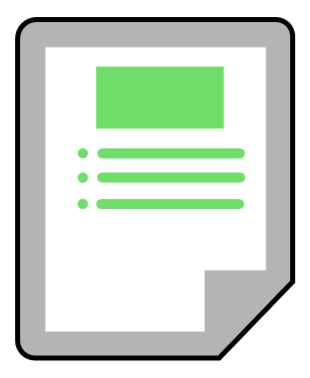
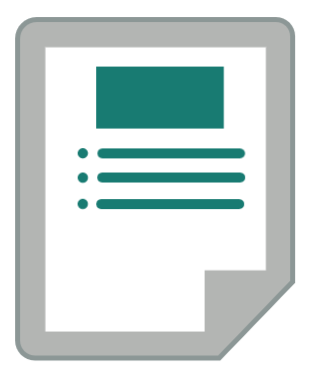
updated all recipes pages with a nav option when no recipes exist

diff --git a/client/src/App.css b/client/src/App.css
@@ -1,13 +1,13 @@
 
 :root{
   --off_white:#F2F2F3;
-  --dark_green: #356809;
-  --medium_green: #5FA621;
   --dark_neutral:#242C29;
+  --medium_neutral:#3F4948;
+  --light_neutral:#8C9796;
   --dark_red:#955049;
-  --medium_orange:#C95F36;
-  --bright_orange:#F59446;
-  --deep_blue:#2C6862
+  --deep_blue:#2C6862;
+  --medium_blue:#187B72;
+  --light_blue:#089184;
 }
 
 html{
@@ -65,9 +65,9 @@ html{
 }
 
 #navbar-icon{
-  height: 80px;
-  width: 80px;
-  padding-top: 10px;
+  height: 50px;
+  width: 50px;
+  padding-top: 5px;
 }
 
 .navbar-options-container{
@@ -198,6 +198,32 @@ padding: 5px;
   gap: 30px 30px
 }
 
+.display-recipes-no-recipes{
+  display:flex;
+  flex-direction: column;
+}
+
+.display-recipes-no-recipes-button-container{
+  display: flex;
+  flex-direction: row;
+  margin-top: 2em;
+  gap: 2em;
+}
+
+.display-recipes-no-recipes-button-container button{
+  background-color: var(--dark_neutral);
+  color: var(--off_white);
+  cursor: pointer;
+
+  font-family: 'Mukta', sans-serif;
+  ;
+
+  border:none;
+
+  padding: 15px
+}
+
+
 .singleRecipeContainer{
   width: 200px;
   height: 250px;
@@ -205,6 +231,13 @@ padding: 5px;
   border-color: #d8d8d8;
   box-shadow: 5px 4px 2px  #d7d9de;
   margin-top: 20px;
+  background-color: white;
+}
+
+.singleRecipeContainer img{
+  border-bottom: solid;
+  background-color: var(--dark_neutral);
+  border-color: var(--light_neutral);
 }
 
 .singleRecipeContainer a{
@@ -338,10 +371,10 @@ padding: 5px;
 
 #acceptTextButton{
   text-align: center;
-  background-color: darkgreen;
-  position:sticky;
+  background-color: var(--light_blue);
+  position:fixed;
   top:100px;
-  left: 50%;
+  left: 45%;
   z-index:100;
   padding: 10px;
   color: white;
@@ -366,27 +399,25 @@ padding: 5px;
   box-shadow: 0px 10px 50px #d7d9de;
   text-align: center;
   padding: 20px;
-  background:#f5f5f5
+  background:#f5f5f5;
 }
 
 #tesseract-progressbar {
-  background-color: #f3f3f3;
   border: 0;
   height: 18px;
   border-radius: 9px;
-  color: lightblue;
   width: 70%;
   border: none;
   transition: all 0.5s
 }
 
 #tesseract-progressbar::-webkit-progress-bar {
-  background-color: #f3f3f3;
+  background-color: var(--light_neutral);
   border: 0;
   height: 18px;
   border-radius: 9px;
-  color: lightblue;
-  width: 70%;
+  color: var(--medium_blue);
+  width: 100%;
   border: none;
   transition: all 0.5s;
 
@@ -396,20 +427,20 @@ padding: 5px;
   border: 0;
   height: 18px;
   border-radius: 9px;
-  color: lightblue;
-  background-color: lightblue;;
-  width: 70%;
+  color: var(--medium_blue);
+  background-color: var(--medium_blue);
+  width: 100%;
   border: none;
   transition: all 0.5s;
 }
 
 #tesseract-progressbar::-moz-progress-bar {
-  background-color: #f3f3f3;
+  background-color: var(--medium_blue);
   border: 0;
   height: 18px;
   border-radius: 9px;
-  color: lightblue;
-  width: 70%;
+  color: var(--medium_blue);
+  width: 100%;
   border: none;
   transition: all 0.5s;
 }
@@ -570,7 +601,7 @@ padding: 5px;
 }
 
 #addButton{
-  color:green;
+  color:var(--light_blue);
   background-color: none;
   background: none;
   border: none;
@@ -580,7 +611,7 @@ padding: 5px;
 }
 
 #addButton:hover{
-  color:darkgreen;
+  color:var(--deep_blue);
 }
 
 .recipeform-input-field{
@@ -603,7 +634,7 @@ padding: 5px;
 }
 #save-recipe{
   text-align: center;
-  background-color: darkgreen;
+  background-color: var(--light_blue);
   padding: 10px;
   color: white;
   text-decoration: none;

diff --git a/client/src/Features/RecipeForms/components/RecipeForm.js b/client/src/Features/RecipeForms/components/RecipeForm.js
@@ -6,27 +6,43 @@ import { RecipeInstructionsEditor } from "./RecipeInstructionsEditor"
 import { updateRecipe, saveImage, createRecipe  } from "../api";
 import { useAuth0 } from "@auth0/auth0-react";
 import { createEditRecipePayload, createNewRecipePayload } from "../utils";
+import ByteIcon  from "../../../Assets/ByteIcon.png"
 
 export function RecipeForm(){
     const { user } = useAuth0();
 	const { state } = useLocation()
 	const { id } = useParams()
-	const useCase = state.useCase
+	const useCase = (state? state.useCase : null)
 
 	const [ recipeName ] = useState( state ? state.recipeData.name : null )
 	const [ servings ] = useState( state ? state.recipeData.servings : null )
 	const [ source ] = useState( state ? state.recipeData.source : null)
-	const [ ingredients ] = useState( state.recipeData.ingredients ? state.recipeData.ingredients : null )
-	const [ instructions ] = useState( state.recipeData.instructions ? state.recipeData.instructions : null )
+	const [ ingredients ] = useState( state ? 
+		state.recipeData.ingredients ? state.recipeData.ingredients : null 
+		:
+		null )
+	const [ instructions ] = useState( state ? 
+		state.recipeData.instructions ? state.recipeData.instructions : null
+		:
+		null )
 	const [ recipeImg, setRecipeImg ] = useState( useCase === "edit"?
 		state.recipeData.recipeImg ? state.recipeData.recipeImg : null
 		:
-		state.recipeImg ? Object.values(state.recipeImg)[0] : null )
+		state ? 
+			state.recipeImg ? Object.values(state.recipeImg)[0] 
+			: 
+			null 
+		: 
+		null)
 	const [ imgPreview, setImgPreview ] = useState( useCase === "edit"?
-		state.recipeData.recipeImg ? state.recipeData.recipeImg.filepath : "/RecipeIcon.png"
+		state.recipeData.recipeImg ? state.recipeData.recipeImg.filepath : { ByteIcon }
 		:
-		state ? URL.createObjectURL(Object.values(state.recipeImg)[0].imgBlob)
-		: "/RecipeIcon.png" )
+		state? state.recipeImg ? 
+			URL.createObjectURL(Object.values(state.recipeImg)[0].imgBlob)
+			: 
+			{ ByteIcon }
+		:
+		{ ByteIcon} )
 	const [ deleted, setDeleted ] = useState([])
 	const navigate = useNavigate();
 

diff --git a/client/src/Features/DisplayRecipes/components/AllRecipes.js b/client/src/Features/DisplayRecipes/components/AllRecipes.js
@@ -2,15 +2,25 @@ import React, { useState, useEffect } from "react";
 import { Link } from "react-router-dom";
 import { useAuth0 } from "@auth0/auth0-react";
 import { getAllRecipes}  from "../api/getAllRecipes"
+import ByteIcon from "../../../Assets/ByteIcon.png"
+import { useNavigate } from "react-router-dom";
+
 
 export function AllRecipes() {
   const [ recipes, setRecipes ] = useState([])
   const { user } = useAuth0();
+  const navigate = useNavigate();
+
 
 	const handleGetAllRecipes = async () => {
 		let response = await getAllRecipes( user.sub )
 		setRecipes( response.data )
 	}
+
+	const handleClick = ( location ) => {
+		navigate( location )
+	}
+
 
 	useEffect(() => {
 		handleGetAllRecipes()
@@ -26,8 +36,8 @@ export function AllRecipes() {
 							<div className = "singleRecipeContainer">
 								<Link to = { `/recipes/${recipe.id}` }>
 									<img 
-										src = { recipe.image ? recipe.image.filepath : "RecipeIcon.png" }
-										alt = "RecipeIcon.png"
+										src = { recipe.image ? recipe.image.filepath : ByteIcon }
+										alt = "RecipePageIcon.png"
 										className = "singleRecipeDisplayIcon"/>
 									<div className = "recipecontainer-name">
 										{ recipe.name }
@@ -37,11 +47,20 @@ export function AllRecipes() {
 						)
 					})
 					:
-					<div>
-							You have no recipes!
-					</div>
-				}
-			</div>
+					<div className = "display-recipes-no-recipes">
+						<div>You have no recipes! To get started choose an option below</div>
+						<div className = "display-recipes-no-recipes-button-container">
+							<button 
+								onClick = {() => handleClick("/recipeForm/new")}>
+								CREATE RECIPE MANUALLY
+							</button>
+							<button 
+								onClick = {() => handleClick("/recipeImageIntake")}>
+								CREATE RECIPE FROM IMAGE
+							</button>
+						</div>
+					</div>}
+				</div>
 		</section>
 	)
 }

diff --git a/client/src/Components/Navigation/Navbar.js b/client/src/Components/Navigation/Navbar.js
@@ -1,34 +1,36 @@
 import { Link } from "react-router-dom"
 import { AuthenticationButton } from "../../Features/Auth"
+import { useAuth0 } from "@auth0/auth0-react";
 import { useState } from "react"
 import NavModal from "./NavModal"
-import RRIcon from "../../Assets/RRIcon.png"
+import ByteIcon from "../../Assets/ByteIcon.png"
 
 export default function NavBar() {
   const [ show, setShow ] = useState( false )
+  const { isAuthenticated } = useAuth0();
     return(
       <>
         <nav id = "navbar">
           <div className ="navbar-content">
             <div id = "navbar-home-link-container">
               <Link to = "/" id = "navbar-home-link">
-                {/* <img 
-                  src = { RRIcon } 
-                  alt = "Byte Icon" 
-                  id = "navbar-icon"/> */}
                   BYTE
               </Link>
             </div>
             <div className="navbar-options-container">
             <div id = "navbar-options">
-              <Link 
-                to = "/recipes">
-                RECIPES
-              </Link> 
-              <button 
-                onClick = {() => setShow( true )}>
-                NEW RECIPE
-              </button>
+              {isAuthenticated ? 
+              <>
+                <Link 
+                  to = "/recipes">
+                  RECIPES
+                </Link> 
+                <button 
+                  onClick = {() => setShow( true )}>
+                  NEW RECIPE
+                </button>
+              </>
+              :null}
             </div>
             <div id = "navbar-auth">
               <AuthenticationButton/>

diff --git a/client/src/Features/DisplayRecipes/components/SingleRecipe.js b/client/src/Features/DisplayRecipes/components/SingleRecipe.js
@@ -4,6 +4,7 @@ import { getRecipe, deleteRecipe } from "../api"
 import { Editor, convertFromRaw, createWithContent, EditorState } from "draft-js"
 import { Nutrition } from "./Nutrition"
 import { DisplayIngredients } from "./Ingredients"
+import ByteIcon from "../../../Assets/ByteIcon.png"
 
 export function SingleRecipe() {
 	const [ recipeData, setRecipeData ] = useState( null )
@@ -69,8 +70,8 @@ export function SingleRecipe() {
 							</div>
 							<div className = "recipe-display-img-container">
 								<img 
-									src = { recipeData.image? recipeData.image.filepath:"/RecipeIcon.png"}
-									alt = "RecipeIcon.png"
+									src = { recipeData.image? recipeData.image.filepath: ByteIcon}
+									alt = "ByteIcon"
 									className = "responsive-image"
 								/>
 							</div>

diff --git a/client/src/Features/ImageParser/components/TesseractContainer.js b/client/src/Features/ImageParser/components/TesseractContainer.js
@@ -37,11 +37,12 @@ export function TesseractContainer(){
 
 	return(
 		<article className = "progress_page">
-			<h2>Reading Image...</h2>
+			<h2>Reading Image</h2>
 			<div className = "tesseract-progress-container">
 				<h2 id = "tesseract-progress-status">Status: </h2>
 				<strong>{ statusLog1 }</strong>
 				<div classNiame = "tesseract-progressbar-container">
+					{console.log('progLog1: ',progLog2)}
 					<progress id = "tesseract-progressbar" value = { progLog1 + progLog2 } max = "2"/> 
 				</div>
 			</div>

diff --git a/client/src/Features/RecipeImageIntake/components/FabricCanvas.js b/client/src/Features/RecipeImageIntake/components/FabricCanvas.js
@@ -100,7 +100,6 @@ export default function FabricCanvas(){
       });
 
     useEffect(()=>{
-        console.log('hello?')
         const imgElement = document.getElementById('recipe-img')
         const imgInstance = new fabric.Image(imgElement)
         imgInstance.scaleToWidth(width)

diff --git a/client/src/Features/VerifyImageText/components/VerifyImgTxtContainer.js b/client/src/Features/VerifyImageText/components/VerifyImgTxtContainer.js
@@ -31,7 +31,6 @@ export const VerifyImgTextContainer = () => {
 
 	return(
 		<article className = "verify-text-page">
-			{/* <VerifySidebar/> */}
 			<div className = "verify-recipe">
 				<Context.Provider 
 						value = {{ parentEditorState, setParentEditorState }}>
